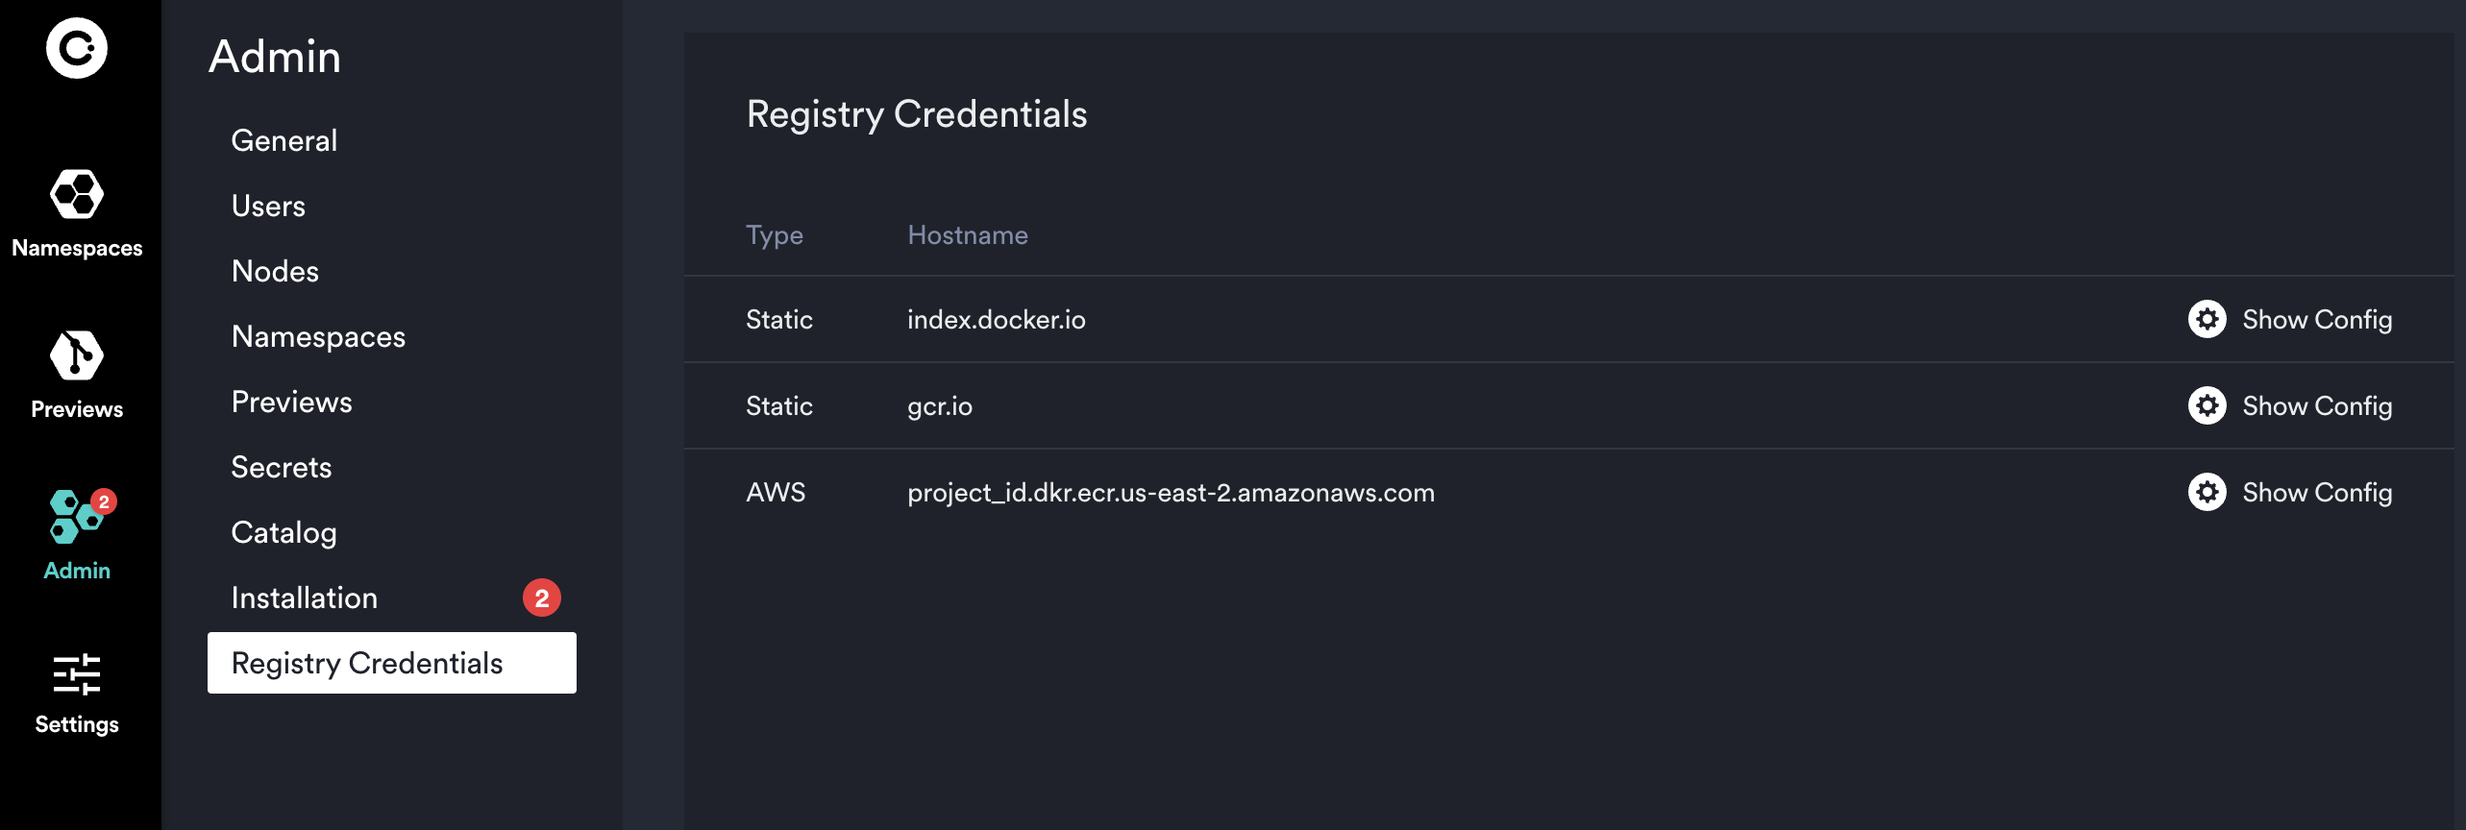
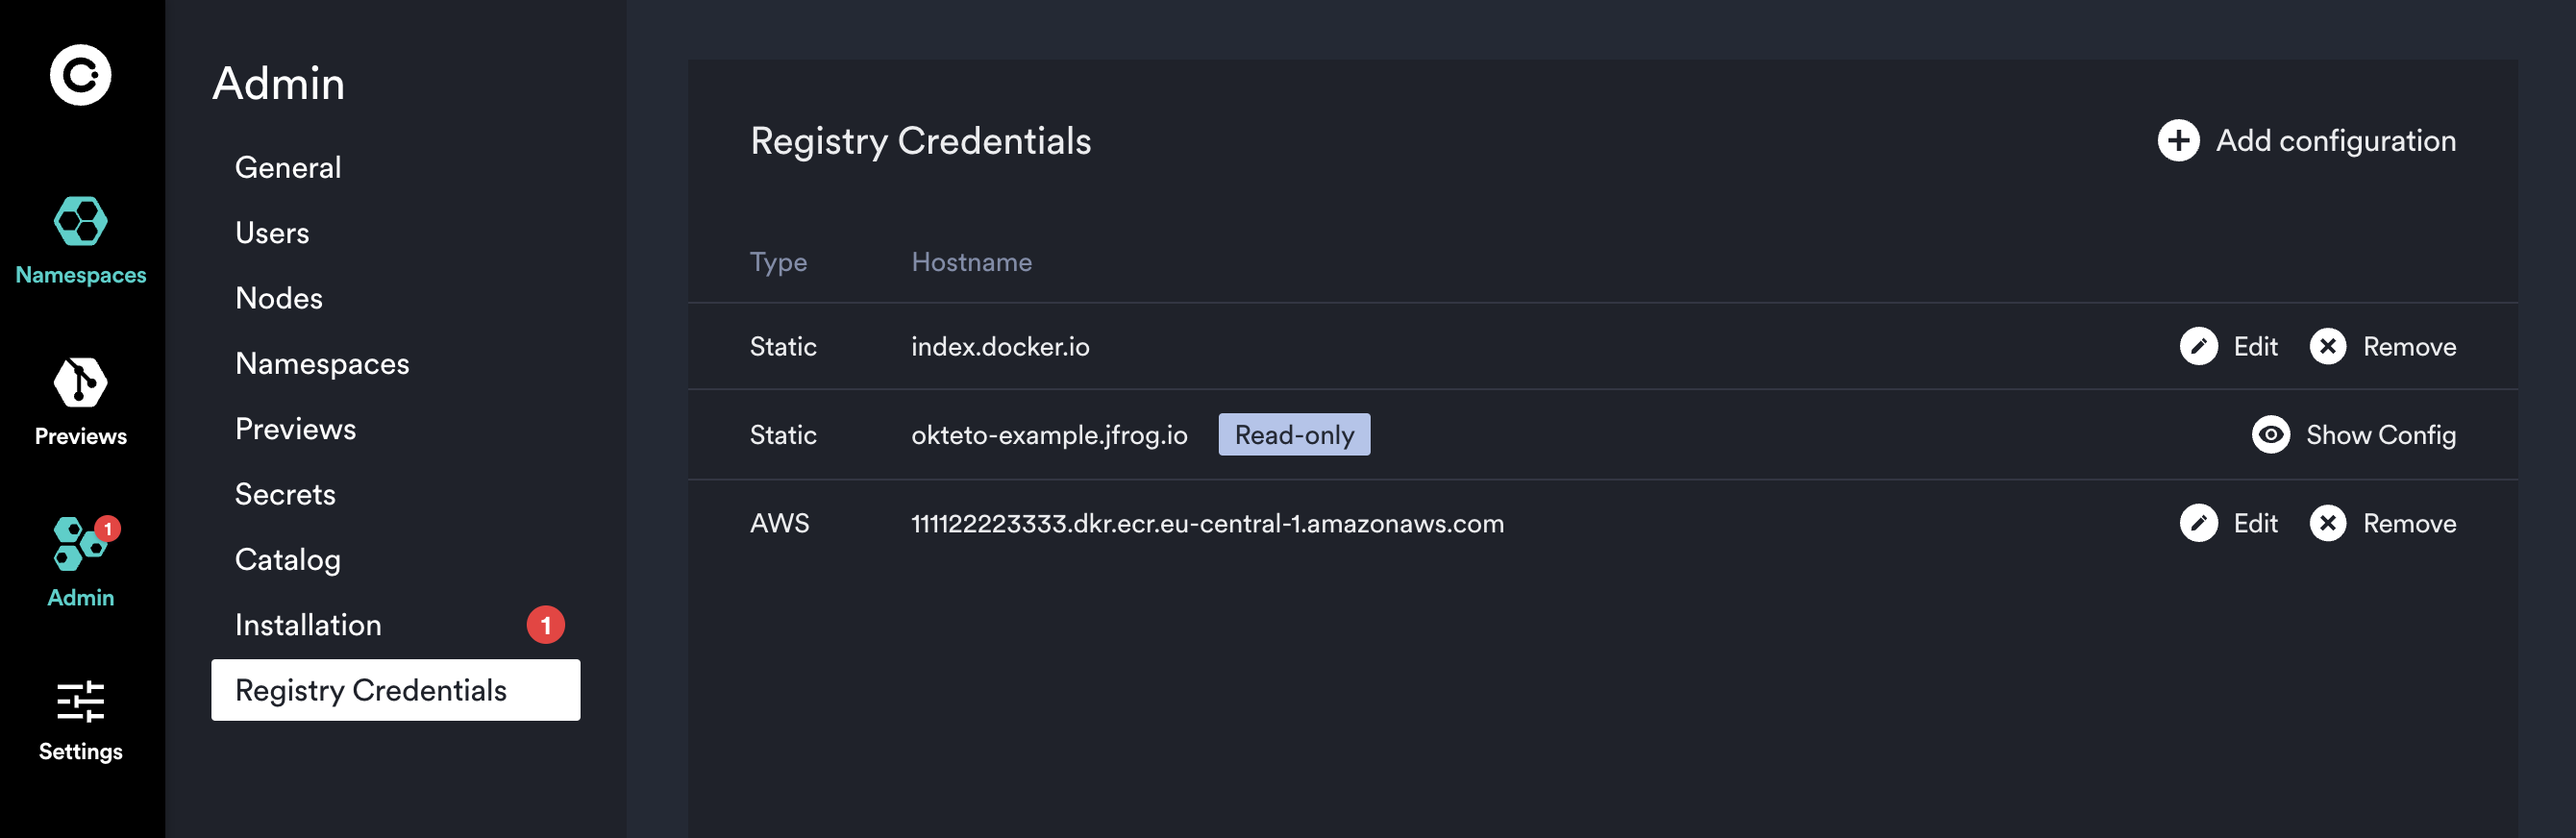
Documentation for the changes in private registry credentials (#509)
* Added documentation for the new changes related to private registry credentials. Explain the before upgrade change and update admin dashboard section

* Added a few links and the limitation of adding aws domains having the suffix amazonaws.com

* Fix broken link to configuration

* Apply suggestions from code review

* Mention that the should go to the UI to verify that the registry credentials were successfully migrated instead of checking kuberentes resources

* Added a page to talk about CRDs including the information related to the private regitries credentials

* Added new page to the sidebar

* Apply suggestions from code review

* Fix id reference for the navbar

* Update screenshots for private registry credentials

* Apply suggestions from code review

* Update src/content/self-hosted/install/crds.mdx

---------

diff --git a/sidebars.js b/sidebars.js
@@ -98,6 +98,7 @@ module.exports = {
           "self-hosted/install/deployment",
           "self-hosted/install/backup",
           "self-hosted/install/upgrade",
+          "self-hosted/install/custom-resource-definitions",
           "self-hosted/install/troubleshooting",
           "self-hosted/install/releases"
         ]
